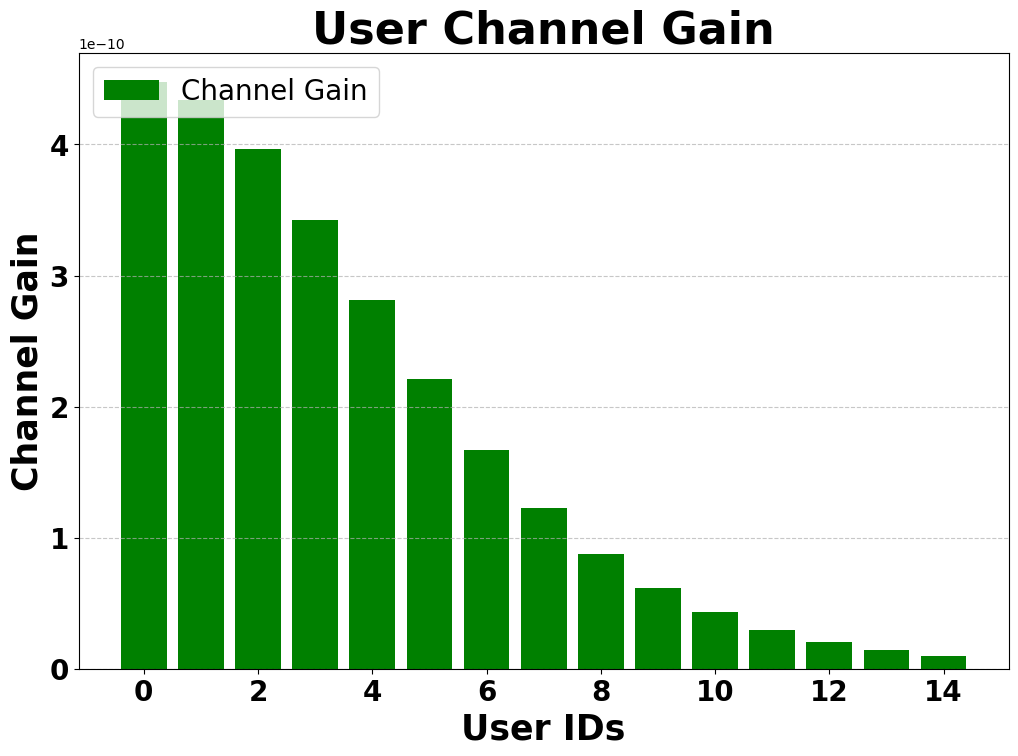
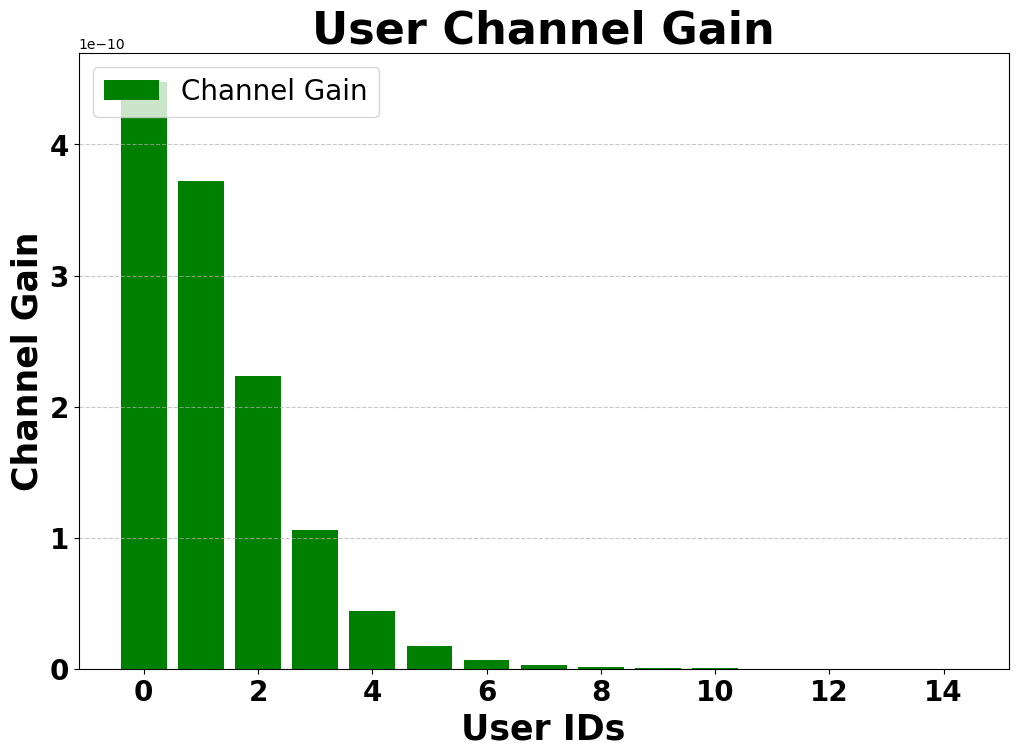
Mediocre Results

Changed region(s): [[0.1523, 0.1217, 0.944, 0.8823]]

diff --git a/AoiUser.py b/AoiUser.py
@@ -362,8 +362,8 @@ class AoiUser:
 			CPU frequency of the UAV
 		"""
 		
-		data_rate = max(self.get_current_data_rate(), 1e-10)
-		denominator = max(1 - (jnp.sum(other_user_strategies * other_user_bits) / uav_total_capacity), 1e-10)
+		data_rate = self.get_current_data_rate()
+		denominator = 1 - (jnp.sum(other_user_strategies * other_user_bits) / uav_total_capacity)
 
 		self.current_time_overhead = (
 			((self.data_in_bits * self.get_user_strategy()) / data_rate) + 
@@ -375,7 +375,7 @@ class AoiUser:
 		"""
 		Calculate the consumed energy of the user during the offloading process based on the current strategy
 		"""
-		data_rate = max(self.get_current_data_rate(), 1e-10)
+		data_rate = self.get_current_data_rate()
 		self.current_consumed_energy = ((self.get_user_strategy() * self.get_total_bits()) / (data_rate)) * self.get_transmit_power()
 		#self.current_consumed_energy = self.get_user_strategy() * self.get_total_bits()
 		#logging.info("User %d has Current consumed energy %f", self.get_user_id(), self.current_consumed_energy)
@@ -501,18 +501,22 @@ class AoiUser:
 		def time_variance_constraint(percentage_offloaded):
 			# Calculate the consumed energy of the user
 			
-			data_rate = max(self.get_current_data_rate(), 1e-10)
-			denominator = max(1 - (jnp.sum(self.other_user_strategies * self.other_user_bits) / self.uav_total_capacity), 1e-10)
+			data_rate = self.get_current_data_rate()
+			denominator = 1 - (jnp.sum(self.other_user_strategies * self.other_user_bits) / self.uav_total_capacity)
 
 			current_time_overhead = ( ((self.data_in_bits * percentage_offloaded) / data_rate) + ((self.get_task_intensity() * percentage_offloaded * self.data_in_bits) / (denominator * uav_cpu_frequency)))
-				
-			return 1 - (current_time_overhead/self.T) # Time overhead should be less than T
+			
+			#logging.info("CONSTRAINT: Time Overhead: %f", current_time_overhead/self.T)
+     
+			return 1 - (current_time_overhead/self.T) # Time overhead should be less than T #0.5 and noone can go high
 
 		def energy_variance_constraint(percentage_offloaded):
 			
 			current_consumed_energy = ((percentage_offloaded * self.get_total_bits()) / (self.get_current_data_rate())) * self.get_transmit_power()
+   
+			#logging.info("CONSTRAINT: Consumed Energy: %f", current_consumed_energy/self.total_capacity)
 			
-			return 1 - current_consumed_energy/(self.total_capacity)  # Energy overhead should be less than total capacity
+			return 1 - (current_consumed_energy/self.total_capacity)  # Energy overhead should be less than total capacity
 		
 		constraints = [
 			{'type': 'ineq', 'fun': constraint_positive},  # percentage_offloaded >= 0

diff --git a/submodular_game_main.py b/submodular_game_main.py
@@ -32,12 +32,12 @@ UAV_CPU_FREQUENCY = 2 * (10**9)
 UAV_VELOCITY = 1
 MAX_ITER = 50
 DISTANCE_MIN = 10
-DISTANCE_MAX = 13
+DISTANCE_MAX = 80
 MAX_BITS = 2 * 10**6
 MIN_BITS = 3 * 10**5
 ENERGY_LEVEL = 29000
 B = 0.74
-C = 0.0043
+C = 0.00043
 
 data_dict = {}
 
